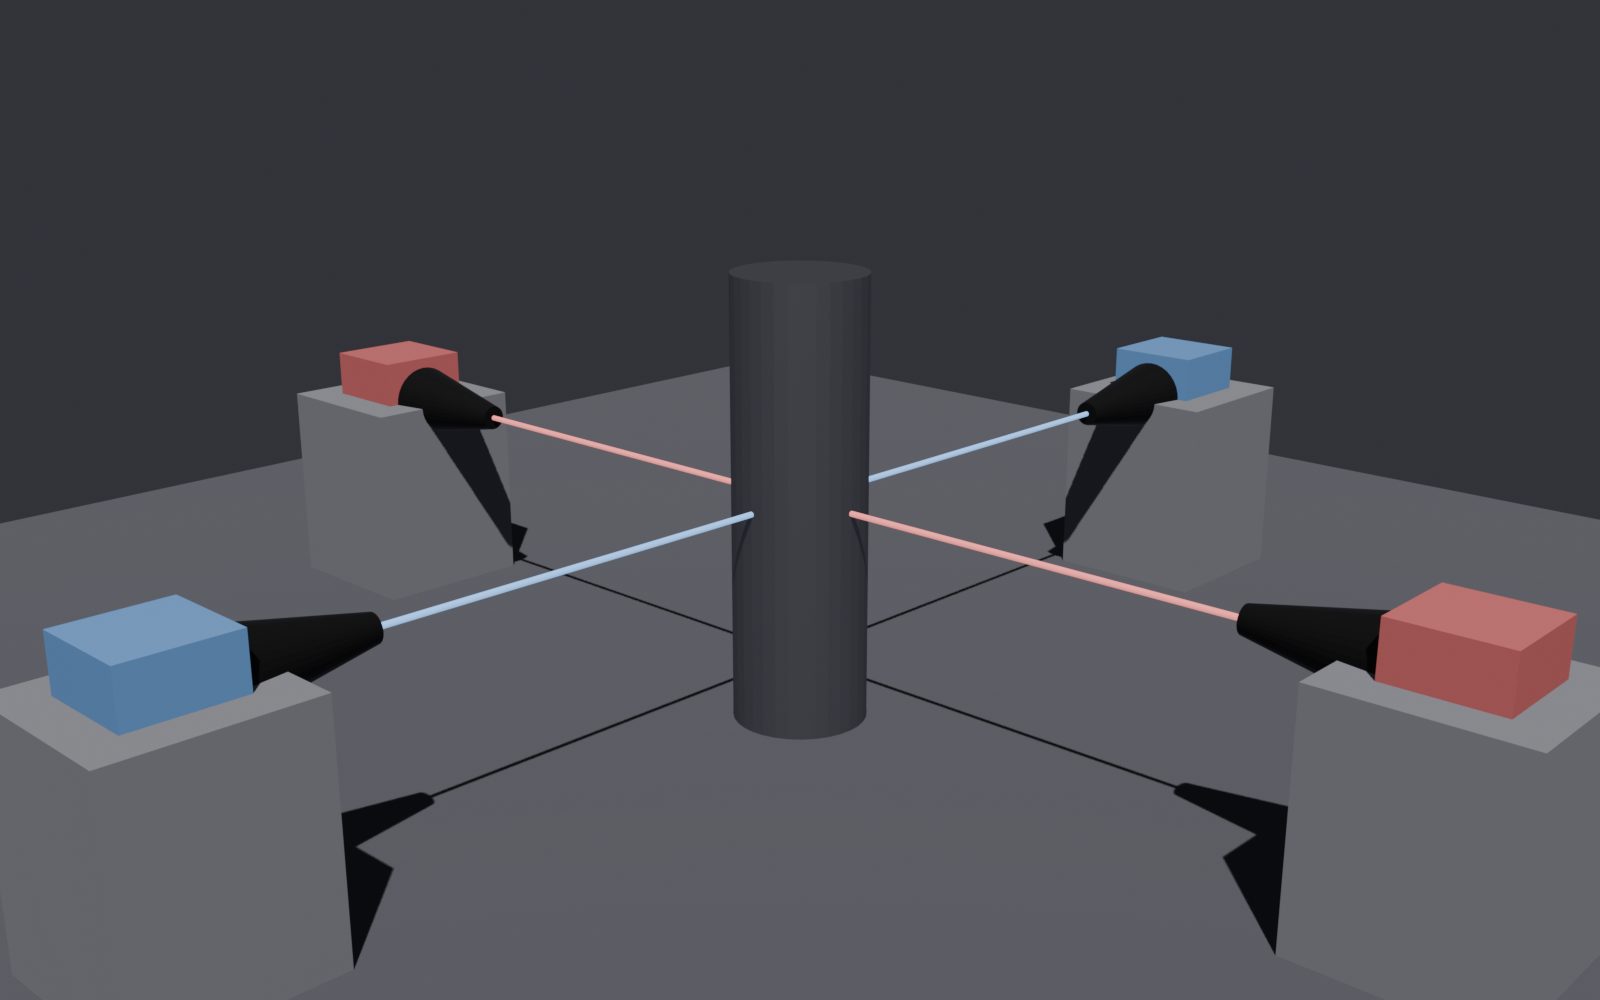
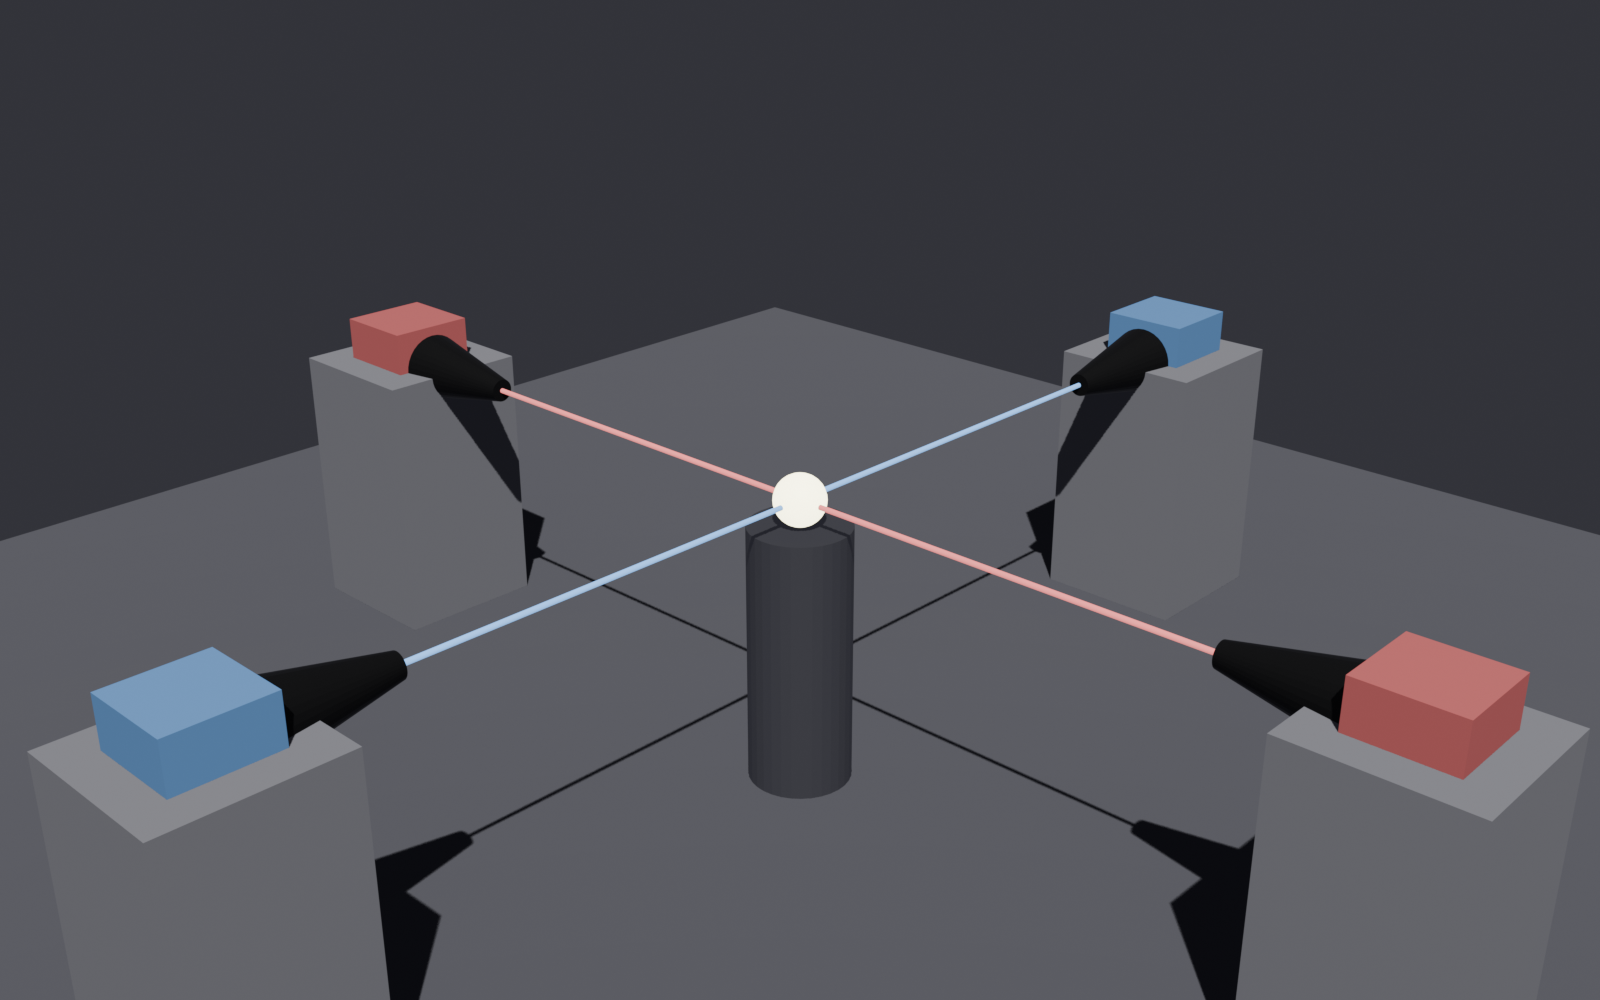
update radius/height of sample mount

diff --git a/dev/blender/isoview_rig.py b/dev/blender/isoview_rig.py
@@ -19,9 +19,10 @@ import bpy
 from mathutils import Vector
 
 CAM_DIST = 6.0       # camera distance from center axis
-CAM_HEIGHT = 2.0     # camera / sample height above the table
-CYL_RADIUS = 0.6
-CYL_HEIGHT = 4.0
+CYL_RADIUS = 0.5
+CYL_HEIGHT = 2.6
+SAMPLE_R = 0.25
+CAM_HEIGHT = CYL_HEIGHT + SAMPLE_R  # aim at the sample sitting atop the cylinder
 TABLE_SIZE = 22.0
 LENS_LEN = 1.2
 BODY_SIZE = 0.9
@@ -138,7 +139,7 @@ def build_rig(n_cameras):
                          metallic=0.9, roughness=0.3))
 
     # sample at the convergence point
-    bpy.ops.mesh.primitive_uv_sphere_add(radius=0.22, location=(0, 0, CAM_HEIGHT))
+    bpy.ops.mesh.primitive_uv_sphere_add(radius=SAMPLE_R, location=(0, 0, CAM_HEIGHT))
     sample = bpy.context.active_object
     sample.name = "sample"
     bpy.ops.object.shade_smooth()